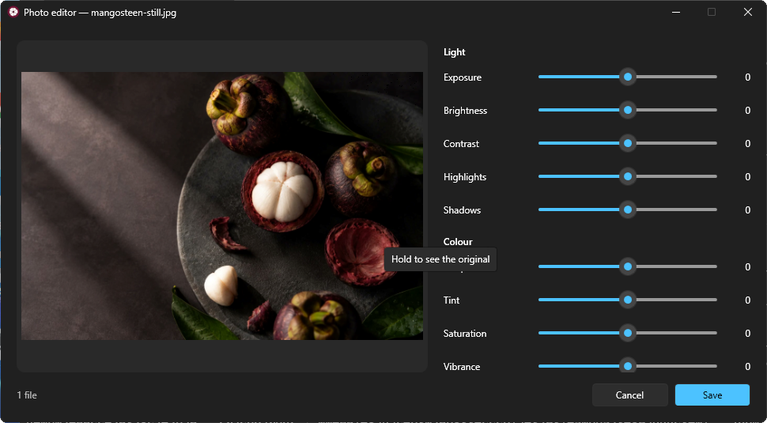
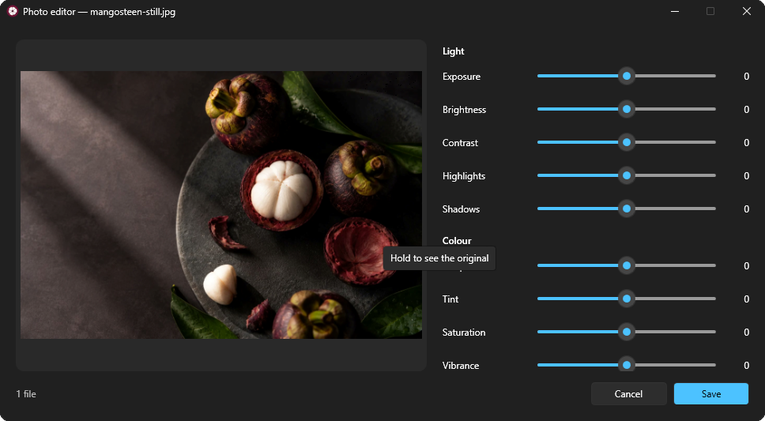
README screenshots: cut the 1 px window border and round the corners a little more

diff --git a/build/readme-images.py b/build/readme-images.py
@@ -18,14 +18,16 @@ ROOT = Path(__file__).resolve().parent.parent
 PAIRS = [("annotate", "frame"), ("edit", "compress"), ("trimMedia", "bleep")]
 SINGLES = {"welcome": 1440}  # widest size kept, in pixels
 ROW = 98  # per cent of the README width a row of two takes (a little room for the gap)
-CORNER = 8  # Windows 11 window corner radius, in pixels at 100 %
+CORNER = 10  # a little more than the 8 px Windows 11 window corner, so no desktop shows in the corners
 
 
 def window(source: Path, name: str) -> Image.Image:
     screen = source / f"{name}.screen.png"
     if not screen.exists():
         return Image.open(source / f"{name}.png").convert("RGBA")
+    # The outer pixel is the window border, lit unevenly by the desktop behind it; it is cut off.
     image = Image.open(screen).convert("RGBA")
+    image = image.crop((1, 1, image.width - 1, image.height - 1))
     mask = Image.new("L", image.size, 0)
     ImageDraw.Draw(mask).rounded_rectangle((0, 0, image.width - 1, image.height - 1), CORNER, fill=255)
     image.putalpha(mask)

diff --git a/README.md b/README.md
@@ -83,8 +83,8 @@ lossless. Text in the old Windows Cyrillic encoding is read correctly, and CSV f
 Every tool opens a small window with a live preview. Close it and nothing is changed.
 
 <p align="center">
-  <img src="docs/images/en/annotate.png" width="38.6%" alt="Annotate">
-  <img src="docs/images/en/frame.png" width="59.4%" alt="Background">
+  <img src="docs/images/en/annotate.png" width="38.5%" alt="Annotate">
+  <img src="docs/images/en/frame.png" width="59.5%" alt="Background">
 </p>
 
 ### Images and PDF
